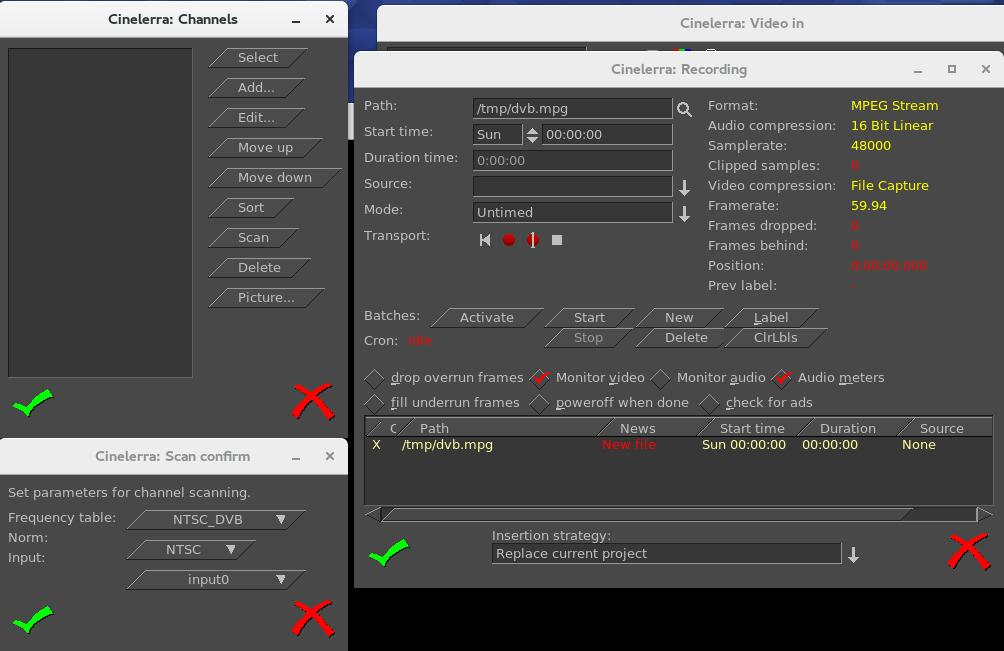
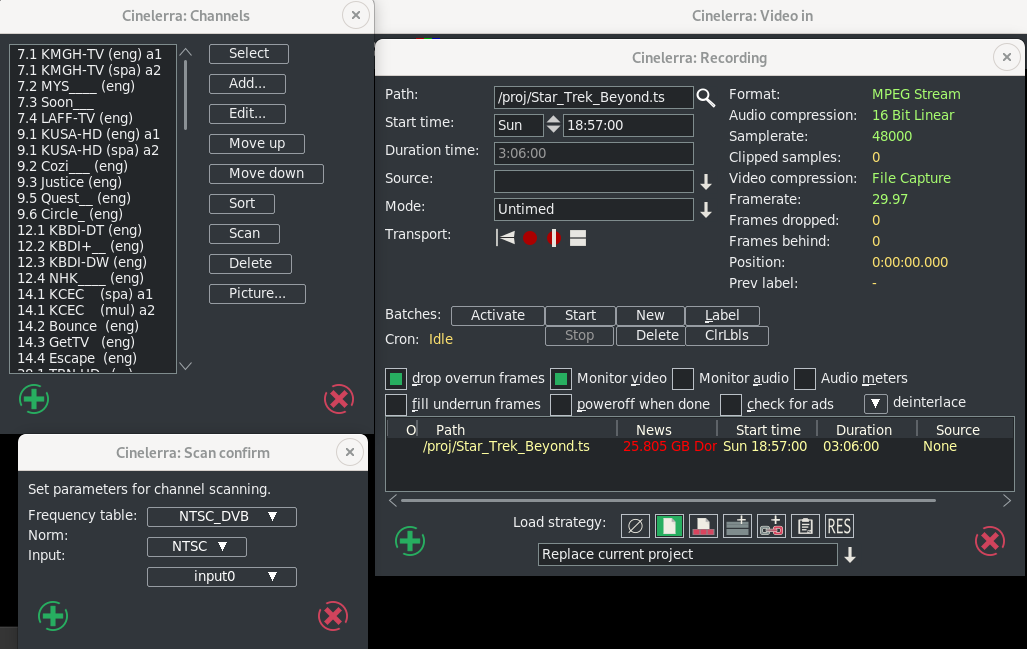
updating TV images for better clarity, as in real pngs, and using Cakewalk theme

Changed region(s): [[0.0, 0.0, 1.0, 1.0]]

diff --git a/parts/Recording.tex b/parts/Recording.tex
@@ -521,7 +521,7 @@ is used to get into remote control mode, even if there is no remote control hard
 \subsection{Android Remote Control for DVB}%
 \label{sub:android_remote_control_dvb}
 
-\CGGI{} has Android remote interface code (figure~\ref{fig:remote02}). Any device, such as a tablet or a phone, can be used as long as it is running the Android operating system. Programming an Android Remote Control for DVB is a bit complicated at first, but becomes pretty simple after a bit.
+\CGGI{} has Android remote interface code (figure~\ref{fig:remote02}). Any device, such as a tablet or a smart phone, can be used as long as it is running the Android operating system. Programming an Android Remote Control for DVB is a bit complicated at first, but becomes pretty simple after a bit.
 
 \begin{enumerate}
     \item The Android Remote Control requires you to download and install the Android \textit{CineRmt} app package (apk). To install it simply download it (any way you can) to your phone or tablet and click it to install, if it doesn't run automatically.
@@ -547,7 +547,7 @@ Figure~\ref{fig:remote03} shows an Android Tablet that can be used as a Remote C
 \begin{figure}[htpb]
     \centering
     \includegraphics[width=0.5\linewidth]{remote03.png}
-    \caption{A Tablet with Android Remote Control}
+    \caption{A Smart Phone with Android Remote Control}
     \label{fig:remote03}
 \end{figure}
 
